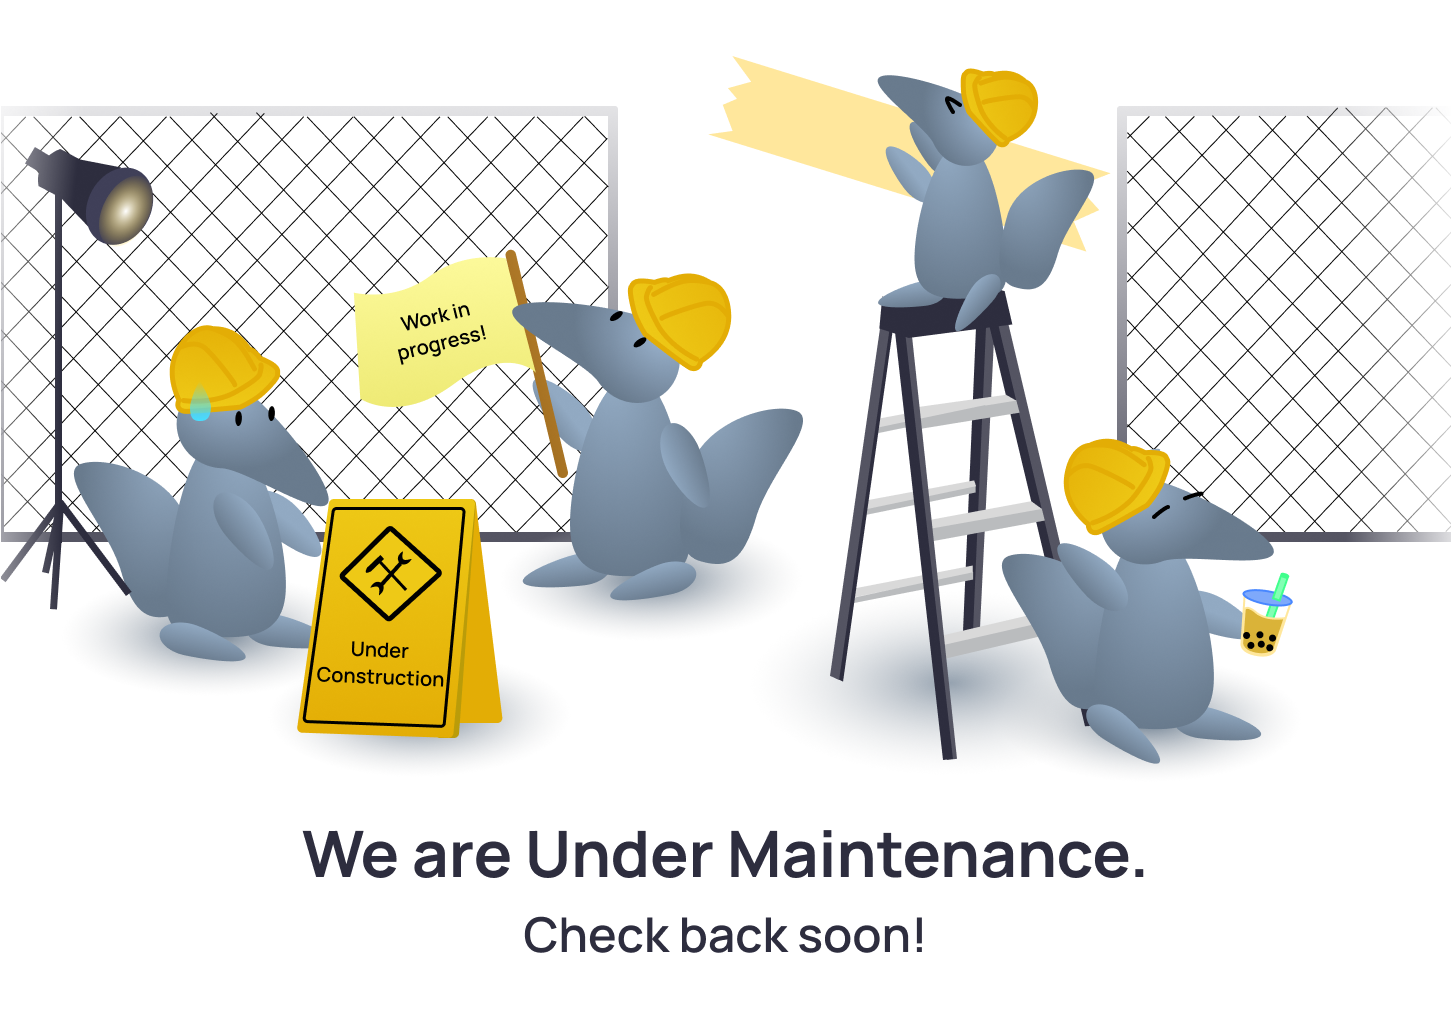
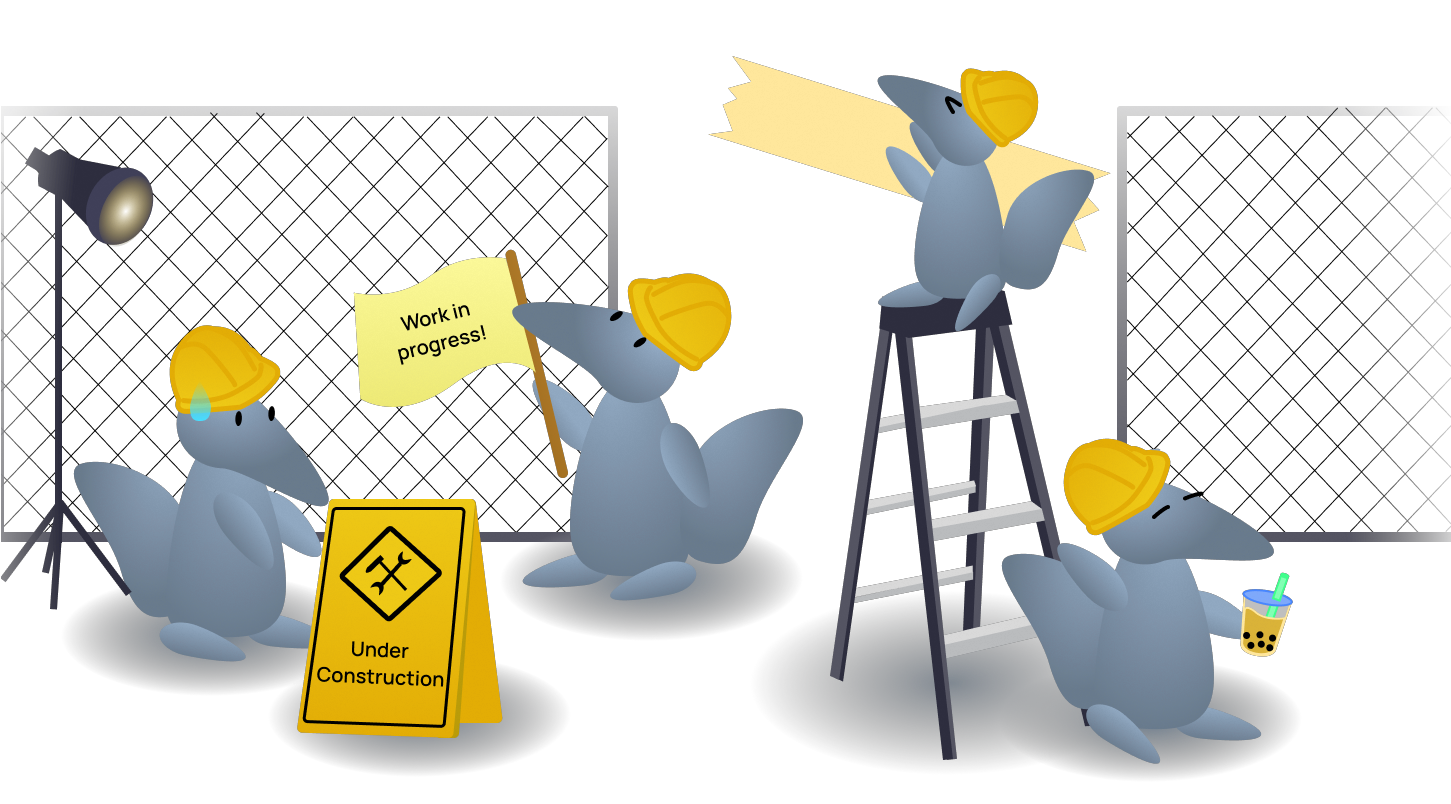
fix: extract embedded text, vertical align center

diff --git a/apps/site/src/views/Schedule/Schedule.tsx b/apps/site/src/views/Schedule/Schedule.tsx
@@ -1,23 +1,29 @@
+import Image from "next/image";
 import maintenancePetr from "@/assets/images/UnderMaintenenceLight.png";
-import "./Schedule.module.scss";
+import styles from "./Schedule.module.scss";
 
 export default function Schedule() {
 	return (
-		<div
-			style={{
-				display: "flex",
-				alignItems: "center",
-				justifyContent: "center",
-			}}
-		>
-			<img
-				src={maintenancePetr.src}
+		<div className="container" style={{ width: "100vw", height: "80vh" }}>
+			<div
+				className={styles.maintenanceContainer}
 				style={{
-					width: "80vw",
-					height: "60vw",
-					mixBlendMode: "multiply",
+					position: "absolute",
+					top: "50%",
+					left: "50%",
+					transform: "translate(-50%, -50%)",
 				}}
-			></img>
+			>
+				<img
+					src={maintenancePetr.src}
+					alt="Anteaters working at a construction site."
+					style={{ width: "100%" }}
+				/>
+				<div className="text-center">
+					<h2>Page Under Maintenance</h2>
+					<p>Check back soon!</p>
+				</div>
+			</div>
 		</div>
 	);
 }

diff --git a/apps/site/src/views/Schedule/Schedule.module.scss b/apps/site/src/views/Schedule/Schedule.module.scss
@@ -1,0 +1,13 @@
+@use "bootstrap-utils" as bootstrap;
+
+.maintenanceContainer {
+	position: absolute;
+	top: 50%;
+	left: 50%;
+	transform: translate(-50%, -50%);
+	width: 75%;
+
+	@include bootstrap.media-breakpoint-up(md) {
+		width: 50%;
+	}
+}
